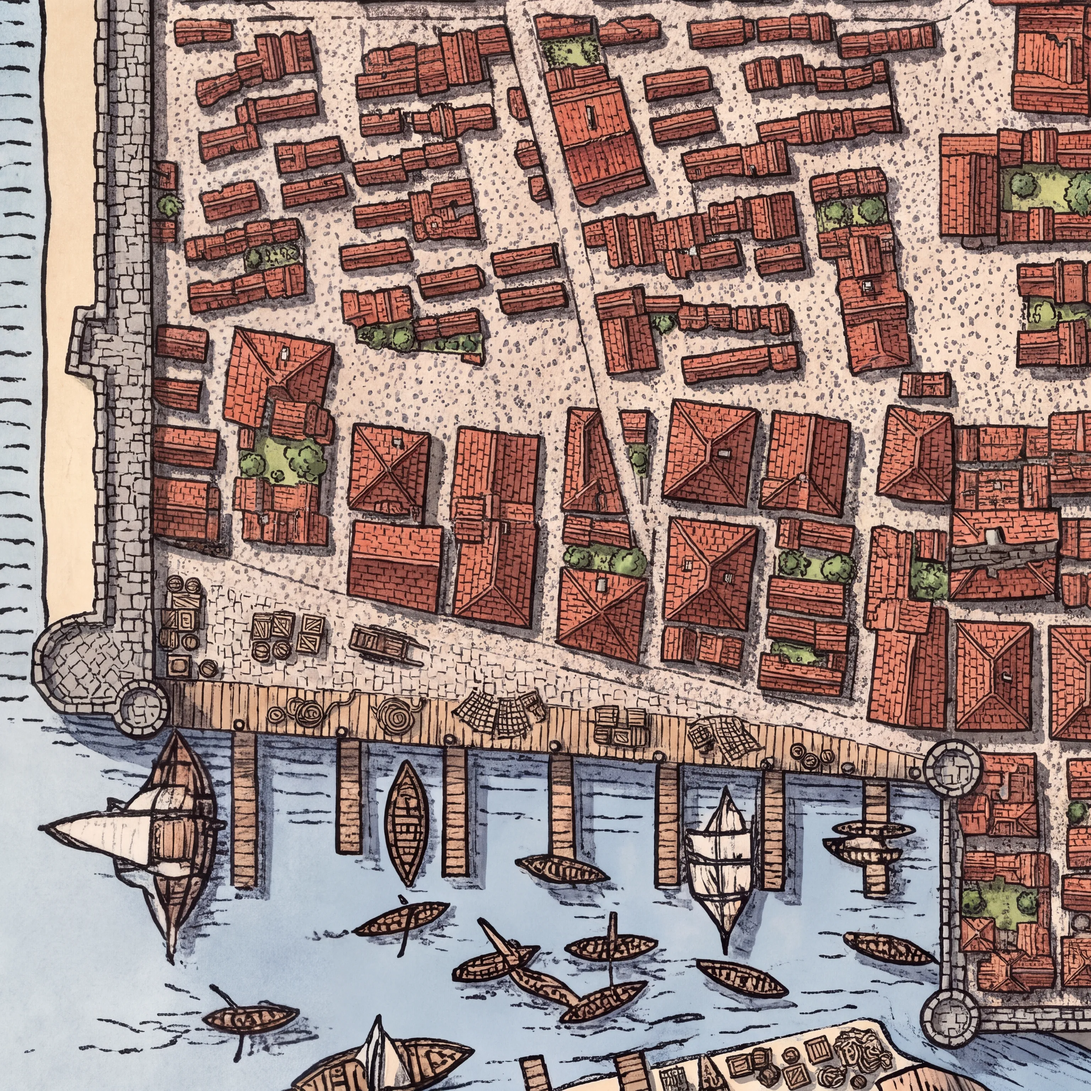
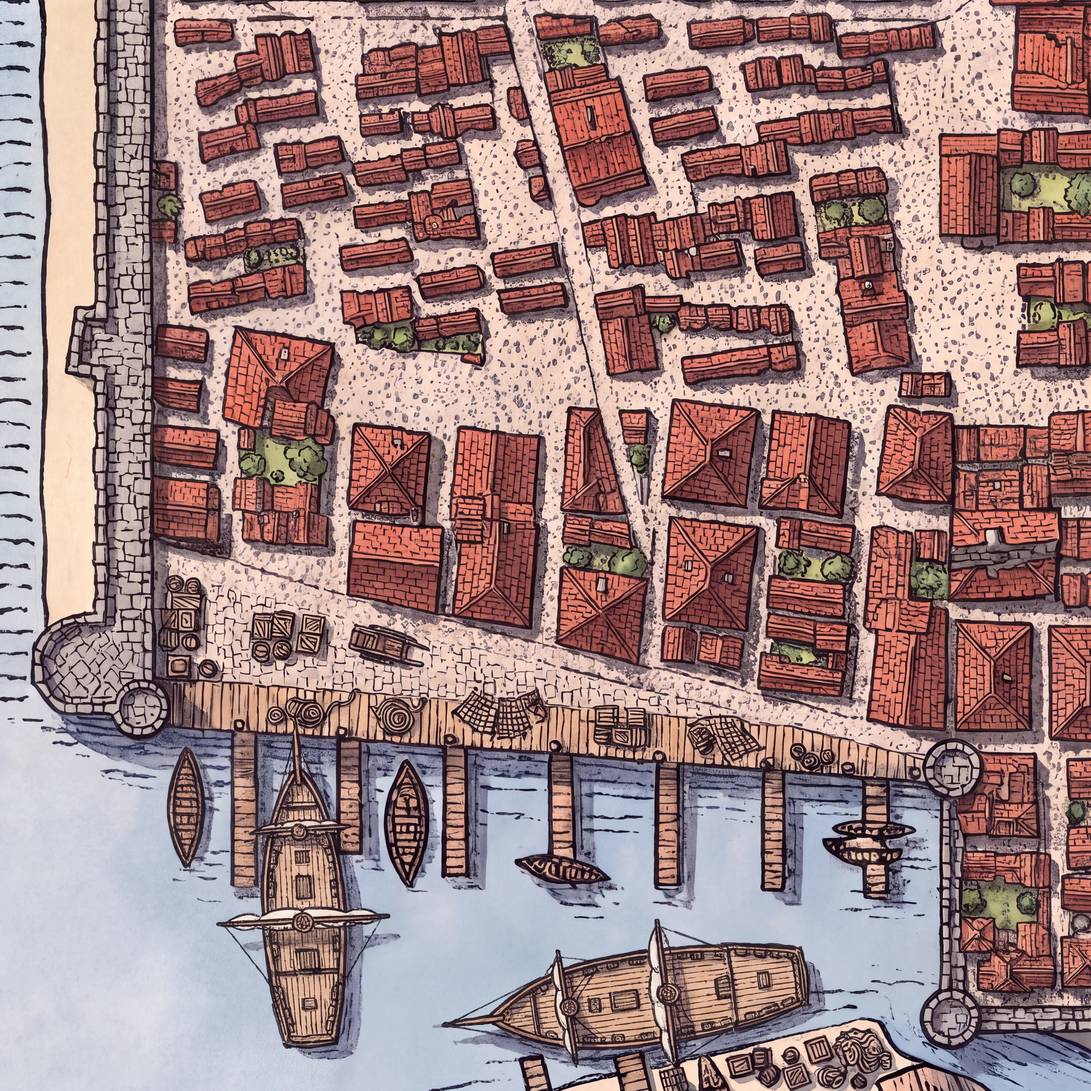
Kordavos map art: the full map in a square frame, the docks harbour up close, and the docks repainted with proper ships

diff --git a/components/stage/city-map.tsx b/components/stage/city-map.tsx
@@ -14,6 +14,9 @@ const HERE = "#a3261f"
 const BELOW = "#6d3fa0"
 const GROUND = { low: "#d9cfb8", middle: "#cfc3a6", high: "#c2b28e" }
 
+// Map units per screen pixel below which the view counts as up close: every place is named and districts show their own painting.
+const CLOSE = 1.2
+
 const points = (p: Point[] = []) => p.map((q) => q.join(",")).join(" ")
 
 // The map in a box of map units. Text and lines keep their size on screen whatever the zoom. Zoomed out, only where
@@ -70,14 +73,14 @@ export function CityMapView({ map, trail, box, fill, onDistrict, className }: { 
       {art?.outer && <image href={art.outer.src} x={art.outer.box[0]} y={art.outer.box[1]} width={art.outer.box[2]} height={art.outer.box[3]} preserveAspectRatio="none" />}
       {/* Up close, each district's own painting, cut to its outline. */}
       {art &&
-        u < 1 &&
+        u < CLOSE &&
         map.districts.map((d) => {
           const a = art.districts[d.id]
           return (
             a && (
               <g key={d.id}>
                 <clipPath id={`${clip}-${d.id}`}>
-                  <polygon points={points(d.polygon)} />
+                  <polygon points={points(d.artClip ?? d.polygon)} />
                 </clipPath>
                 <image href={a.src} x={a.box[0]} y={a.box[1]} width={a.box[2]} height={a.box[3]} preserveAspectRatio="none" clipPath={`url(#${clip}-${d.id})`} />
               </g>
@@ -142,7 +145,7 @@ export function CityMapView({ map, trail, box, fill, onDistrict, className }: { 
             y={y}
             textAnchor="middle"
             fill={INK}
-            fontSize={(u < 0.9 ? 13 : 9.5) * u}
+            fontSize={(u < CLOSE ? 13 : 9.5) * u}
             fontWeight={700}
             fontFamily="Georgia, serif"
             letterSpacing={0.5 * u}
@@ -187,7 +190,7 @@ export function CityMapView({ map, trail, box, fill, onDistrict, className }: { 
         return (
           <g key={l.id}>
             <circle cx={l.x} cy={l.y} r={4.5 * u} fill={l.below ? "#fff" : color} stroke={color} strokeWidth={2 * u} />
-            {(u < 0.9 || l.id === here) && (
+            {(u < CLOSE || l.id === here) && (
               <text
                 x={l.x + dx * u}
                 y={l.y + dy * u}
@@ -238,13 +241,16 @@ export function CityMapPanel({ map, trail, compact, onClose }: { map: CityMap; t
   const here = trail[trail.length - 1]
   const hereDistrict = map.landmarks.find((l) => l.id === here)?.district ?? map.districts.find((d) => d.id === here)?.id
   const district = map.districts.find((d) => d.id === view)
-  const box = district ? districtBox(district) : frameBox(map)
+  // A painted map is square: the view is a painting's own box, in a square frame.
+  const art = district ? map.art?.districts[district.id] : map.art?.outer
+  const box = art?.box ?? (district ? districtBox(district) : frameBox(map))
   return (
     <section className={cn(panel, "absolute z-40 flex flex-col", compact ? "inset-3" : "inset-x-10 top-24 bottom-28")} aria-label="Map">
       <header className="flex flex-wrap items-center gap-2 border-b border-stage-line/20 px-5 py-3">
         <div className="mr-3">
           <div className={eyebrow}>Map</div>
           <h2 className="font-serif text-xl">{district?.name ?? map.name}</h2>
+          <p className="text-xs text-stage-muted">You are at {placeName(map, here)}</p>
         </div>
         <Pill active={view === "all"} onClick={() => setView("all")}>
           {map.name}
@@ -259,9 +265,10 @@ export function CityMapPanel({ map, trail, compact, onClose }: { map: CityMap; t
           Close
         </Pill>
       </header>
-      <div className="relative min-h-0 flex-1 overflow-hidden rounded-b-md">
-        <CityMapView map={map} trail={trail} box={box} onDistrict={view === "all" ? setView : undefined} />
-        <p className="pointer-events-none absolute bottom-3 left-4 font-serif text-sm text-[#4a3b28]">You are at {placeName(map, here)}</p>
+      <div className="grid min-h-0 flex-1 place-items-center overflow-hidden p-3">
+        <div className={cn("relative h-full max-w-full overflow-hidden rounded-sm", art ? "aspect-square" : "w-full")}>
+          <CityMapView map={map} trail={trail} box={box} onDistrict={view === "all" ? setView : undefined} />
+        </div>
       </div>
     </section>
   )

diff --git a/scripts/city-map-paint.ts b/scripts/city-map-paint.ts
@@ -183,7 +183,7 @@ Directly overhead, orthographic, no perspective. No text, letters, labels, compa
 // What a close-up of each district should show, from the encounters set there.
 const DISTRICT_DETAIL: Record<string, string> = {
   docks:
-    "Long warehouses with large roofs along the waterfront, crates, barrels and coiled rope on the quay, cargo nets, carts, mooring posts, planked piers, ships with rigging and furled sails, rowing boats, ripples round the hulls.",
+    "Long warehouses with large roofs along the waterfront, crates, barrels and coiled rope on the quay, cargo nets, carts, mooring posts, planked piers, rowing boats, ripples round the hulls. Each ship is a clear top-down sailing ship: a pointed bow, a square stern, deck planks, round masts with yards across them and sails furled along the yards. No flat triangles, no ships overlapping each other or the piers.",
   "lower-districts":
     "Crowded, leaning tenements and shacks with patched roofs, narrow crooked alleys, washing lines strung between houses, refuse heaps, tiny yards, canvas awnings over a hidden market lane.",
   "old-quarter":

diff --git a/lib/citymap/index.ts b/lib/citymap/index.ts
@@ -21,6 +21,8 @@ export interface MapDistrict extends MapShape {
   polygon: Point[]
   elevation: "low" | "middle" | "high"
   labelAt?: Point
+  // Where the district's own painting shows up close, when it reaches past the district, such as the docks' harbour.
+  artClip?: Point[]
 }
 export interface MapLandmark {
   id: string

diff --git a/wiki/plans/kordavos-city-map.md b/wiki/plans/kordavos-city-map.md
@@ -37,7 +37,10 @@ Done 2026-10-31. `scripts/city-map-paint.ts` writes it, `lib/citymap/art.json` l
 - Each district's close-up redraws a crop of the outer painting at more detail, so the two match. The map shows it inside the district's outline when zoomed in.
 - Each painting gets a drift check: the map file's coast, river, wall and places drawn in red over it. Review it before publishing. All six passed by eye on 2026-10-31.
 - A district can be repainted alone: `paint kordavos docks --force`, then `publish kordavos docks`.
-- Left: a few docks ships are malformed, roofs get chunky at full zoom, and the wide full map shows plain bands beside the square painting.
+- A district's painting shows inside its outline, or inside `artClip` where it reaches past it. The docks' `artClip` takes in the harbour, so its ships show up close.
+- Ships copied from the outer painting stayed malformed however the district brief asked. An edit pass on the docks painting fixed them: "change only the ships and boats", sent with the painting. Use the same for a district whose small things come out wrong.
+- The full map is a square frame round the square painting.
+- Left: roofs get chunky at full zoom.
 
 ## Settled by the text
 
